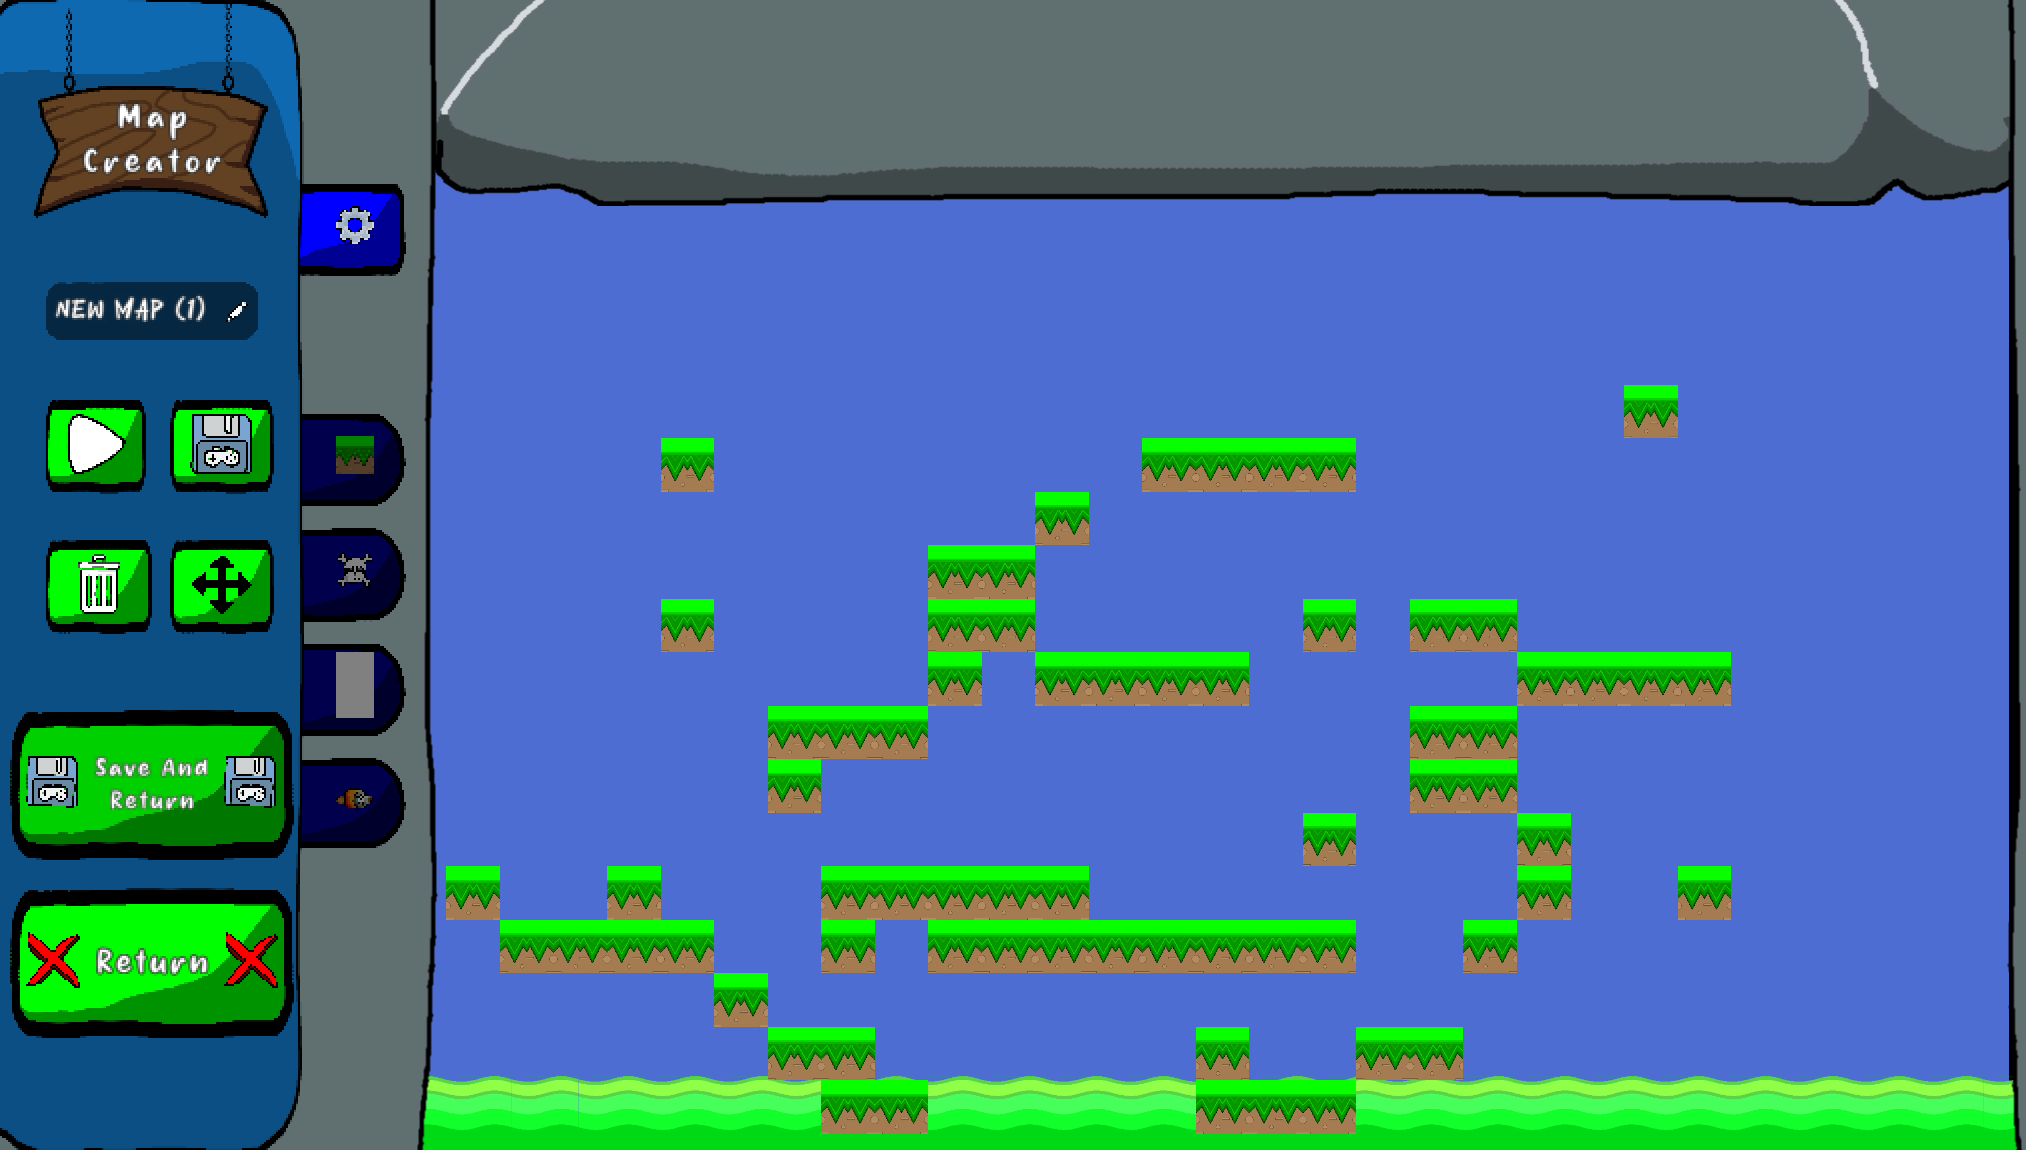
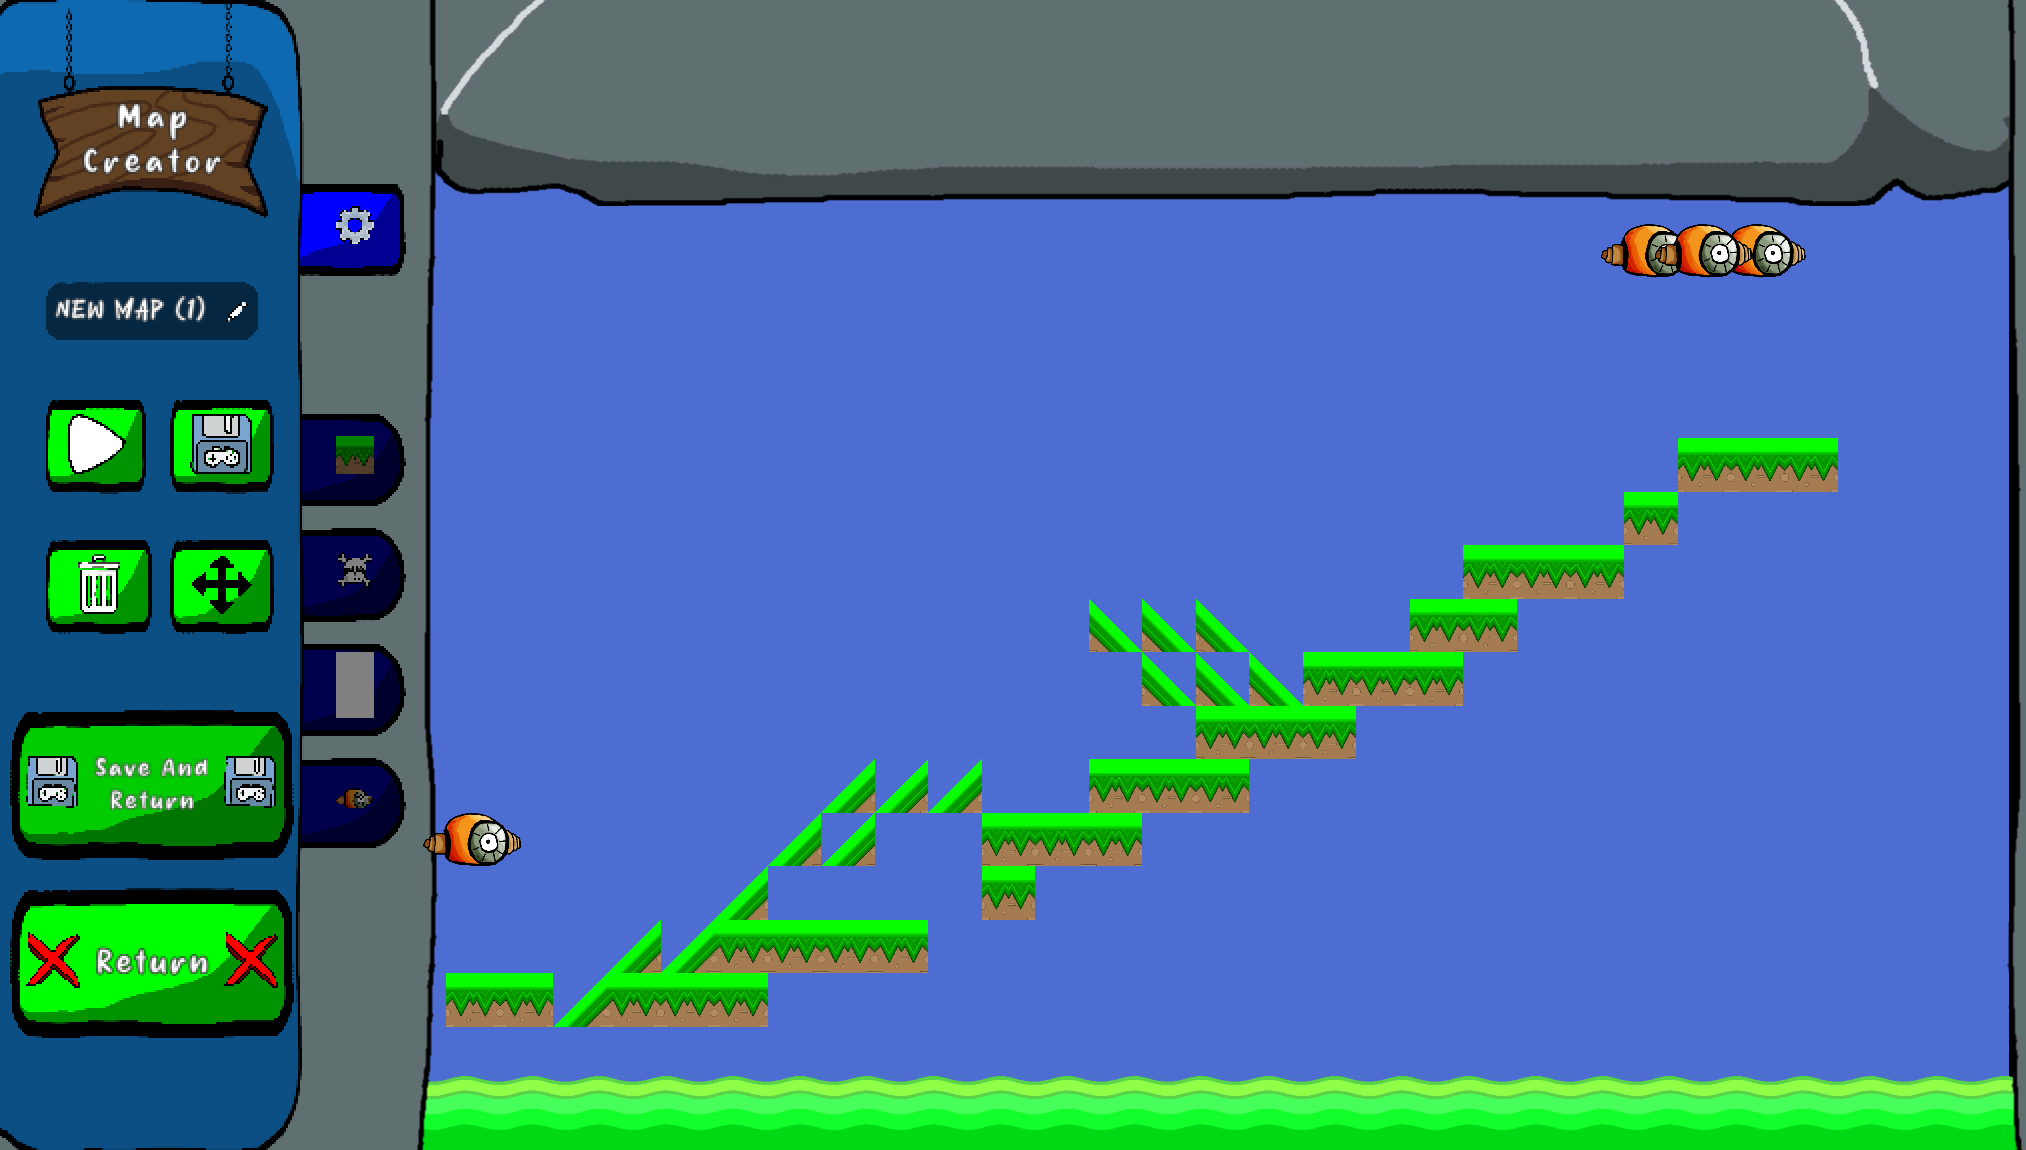
custom lvl are now playable

diff --git a/Assets/Scripts/CustomLevel/CustomLevelMenu.cs b/Assets/Scripts/CustomLevel/CustomLevelMenu.cs
@@ -12,25 +12,35 @@ using UnityEngine.UI;
 public class CustomLevelMenu : MonoBehaviour
 {
     private readonly List<string> _savesNames = new();
-
+    private LvlManager _lvlManager;
+    
     [SerializeField] private Transform pagesParent;
     [SerializeField] private GameObject pagePrefab, savePrefab, createPrefab;
     
     private void Start()
     {
         var path = Path.GetFullPath(@"CustomLevels");
+        _lvlManager = LvlManager.Instance;
         
         if (!Directory.Exists(path)) Directory.CreateDirectory(path);
         PrepareBook(path);
     }
     
-    public void StartMapBuilder()
+    private void StartMapBuilder()
     {
-        var lvlManager = LvlManager.Instance;
-        lvlManager.LvlTitle = Utility.ReturnFirstPossibleName("New map", _savesNames);
-        lvlManager.StartScene(-1);
+        SetUpLvlTitle();
+        _lvlManager.StartScene(-1);
     }
 
+    private void SetUpLvlTitle() => _lvlManager.LvlTitle = Utility.ReturnFirstPossibleName("New map", _savesNames);
+    
+    public void StartLvl(string title)
+    {
+        _lvlManager.LvlTitle = title;
+        _lvlManager.IsCampaign = false;
+        _lvlManager.StartScene(1);
+    }
+    
     private void PrepareBook(string path)
     {
         foreach (var save in Directory.GetDirectories(path).ToList().Where(save =>
@@ -95,6 +105,11 @@ public class CustomLevelMenu : MonoBehaviour
         var lastTimeEdited = File.GetLastWriteTime(Path.Join(title, Path.GetFileNameWithoutExtension(title) + ".json"));
         save.GetChild(2).GetComponent<ParameterizedLocalizedString>().SetObject(new object[]
             { lastTimeEdited.ToString("HH:mm:ss"), lastTimeEdited.ToString("dd/MM/yyyy") });
+
+        save.GetChild(5).GetComponent<Button>().onClick.AddListener(() =>
+        {
+            StartLvl(Path.GetFileNameWithoutExtension(title));
+        });
     }
 
 }

diff --git a/Assets/Scripts/Utilities/LvlGenerator.cs b/Assets/Scripts/Utilities/LvlGenerator.cs
@@ -30,11 +30,14 @@ public class LvlGenerator : MonoBehaviour
 
         try
         {
-            var lvl =
-                JsonConvert.DeserializeObject<Level[]>(Resources.Load<TextAsset>("LevelData/maps").text)[
-                    _lvlManager.CurrentLvl - 1];
-            var map = lvl.Maps;
+            var lvl = _lvlManager.IsCampaign
+                ? JsonConvert.DeserializeObject<Level[]>(Resources.Load<TextAsset>(Path.Join("LevelData", "maps"))
+                    .text)[_lvlManager.CurrentLvl - 1]
+                : JsonConvert.DeserializeObject<Level>(File.ReadAllText(Path.Join(Path.GetFullPath(@"CustomLevels"),
+                    _lvlManager.LvlTitle, _lvlManager.LvlTitle + ".json")));
             
+            var map = lvl.Maps;
+
             _height = map.Length;
             _length = map[0].Length;
             _platforms = new GameObject[_height, _length];
@@ -60,7 +63,7 @@ public class LvlGenerator : MonoBehaviour
             Debug.Log("Error deserializing JSON: " + ex.Message);
         }
 
-        StartTutorial();
+        if (_lvlManager.IsCampaign) StartTutorial();
     }
 
     private void StartTutorial()
@@ -95,7 +98,6 @@ public class LvlGenerator : MonoBehaviour
     private void GenerateObject(char character, int row, int column, bool isPlatform)
     {
         if (row == _height - 1) CreateBottomGround(character, row, column);
-
         var objectDetails = Dictionaries.ObjectBuild.FirstOrDefault(kv => kv.Value.character == character);
 
         if (objectDetails.Equals(

diff --git a/Assets/Scripts/Utilities/Menu/Menu.cs b/Assets/Scripts/Utilities/Menu/Menu.cs
@@ -8,9 +8,11 @@ public class Menu : MonoBehaviour
 {
     private Animator _canvasAnimator;
     private SettingsManager _settingsManager;
+    private LvlManager _lvlManager;
     
     private void Start()
     {
+        _lvlManager = LvlManager.Instance;
         _settingsManager = SettingsManager.Instance;
         _canvasAnimator = GetComponent<Animator>();
         Time.timeScale = 1f;
@@ -23,13 +25,13 @@ public class Menu : MonoBehaviour
     public void StartEndlessRun()
     {
         PlayerManager.Instance.Save();
-        LvlManager.Instance.StartScene((int)Scene.Endless);
+        _lvlManager.StartScene((int)Scene.Endless);
     }
 
     /// <summary>
     /// Reopen main menu.
     /// </summary>
-    public void Restart() => LvlManager.Instance.StartScene((int)Scene.Menu);
+    public void Restart() => _lvlManager.StartScene((int)Scene.Menu);
 
     /// <summary>
     /// Close app. 
@@ -41,7 +43,11 @@ public class Menu : MonoBehaviour
     /// </summary>
     /// <param name="lvl">Level to run.</param>
     /// <remarks>Levels starts form 1.</remarks>
-    public void StartLevel(int lvl) => LvlManager.Instance.StartScene(lvl);
+    public void StartLevel(int lvl)
+    {
+        _lvlManager.IsCampaign = true;
+        _lvlManager.StartScene(lvl);
+    }
 
     public void OpenSettings()
     {

diff --git a/Assets/Scripts/CustomLevel/GameBuildSave.cs b/Assets/Scripts/CustomLevel/GameBuildSave.cs
@@ -41,7 +41,6 @@ public class GameBuildSave : MonoBehaviour
             var path = Path.Join(Path.GetFullPath(@"CustomLevels"), _lvlManager.LvlTitle);
             if (!Directory.Exists(path)) Directory.CreateDirectory(path);
             var finalPath = Path.Join(path, $"{_lvlManager.LvlTitle}.json");
-
             
             if (File.Exists(finalPath))
             {
@@ -51,7 +50,7 @@ public class GameBuildSave : MonoBehaviour
                 finalPath = Path.Join(path, $"{_lvlManager.LvlTitle}.json");
             }
 
-            File.WriteAllText(finalPath, JsonConvert.SerializeObject(new[] { MapObjects() }));
+            File.WriteAllText(finalPath, JsonConvert.SerializeObject(MapObjects()));
             var screenshotPath = Path.Join(path, "Screenshot.jpg");
             if (File.Exists(screenshotPath)) File.Delete(screenshotPath);
             ScreenCapture.CaptureScreenshot(screenshotPath,2);
@@ -71,7 +70,7 @@ public class GameBuildSave : MonoBehaviour
         var lvl = new Level();
         var line = new List<string>();
 
-        for (var i = 0; i < _gameBuilder.Rows; i++)
+        for (var i = _gameBuilder.Rows - 1; i > -1 ; i--)
         {
             var str = new StringBuilder();
             for (var j = 0; j < _gameBuilder.Columns; j++)

diff --git a/Assets/Scripts/CustomLevel/BuildingPlace.cs b/Assets/Scripts/CustomLevel/BuildingPlace.cs
@@ -155,7 +155,6 @@ public class BuildingPlace : MonoBehaviour
             {
                 case ObjectBuildType.Player:
                     _gameBuilder.playerCounter.text = "0";
-                    Debug.Log(_gameBuilder.PlayerPosition);
                     if (_gameBuilder.PlayerPosition != (-1, -1) && _gameBuilder.PlayerPosition != arrayPosition)
                         specialObject = _gameBuilder.BuildingPlaces[_gameBuilder.PlayerPosition.x,
                             _gameBuilder.PlayerPosition.y];
@@ -164,7 +163,6 @@ public class BuildingPlace : MonoBehaviour
                 
                 case ObjectBuildType.EndLvl:
                     _gameBuilder.endLvlCounter.text = "0";
-                    Debug.Log(_gameBuilder.EndLvlPosition);
                     if (_gameBuilder.EndLvlPosition != (-1, -1) && _gameBuilder.EndLvlPosition != arrayPosition)
                         specialObject = _gameBuilder.BuildingPlaces[_gameBuilder.EndLvlPosition.x,
                             _gameBuilder.EndLvlPosition.y];

diff --git a/Assets/Scripts/Utilities/Menu/InGameMenu.cs b/Assets/Scripts/Utilities/Menu/InGameMenu.cs
@@ -1,3 +1,4 @@
+using System;
 using UnityEngine;
 using UnityEngine.SceneManagement;
 
@@ -6,6 +7,10 @@ using UnityEngine.SceneManagement;
 /// </summary>
 public class InGameMenu : MonoBehaviour
 {
+    private LvlManager _lvlManager;
+
+    private void Start() => _lvlManager = LvlManager.Instance;
+
     /// <summary>
     /// Return to main menu.
     /// </summary>
@@ -14,12 +19,12 @@ public class InGameMenu : MonoBehaviour
     /// <summary>
     /// Restart current level.
     /// </summary>
-    public void RestartLevel() => LvlManager.Instance.StartScene(LvlManager.Instance.CurrentLvl);
+    public void RestartLevel() =>_lvlManager.StartScene(_lvlManager.CurrentLvl);
 
     /// <summary>
     /// Start next level.
     /// </summary>
-    public void NextLevel() => LvlManager.Instance.StartScene(LvlManager.Instance.CurrentLvl + 1);
+    public void NextLevel() => _lvlManager.StartScene(_lvlManager.CurrentLvl + 1);
 
     /// <summary>
     /// Stop/Resume current level by modifying the time scale.

diff --git a/Assets/Scripts/Manager/Indestructible/LvlManager.cs b/Assets/Scripts/Manager/Indestructible/LvlManager.cs
@@ -14,6 +14,7 @@ public class LvlManager : IndestructibleManager<LvlManager>
     [NonSerialized] public int CurrentLvl, CoinsInLevel;
     [NonSerialized] public Scene CurrentScene;
     [NonSerialized] public (int, int, int) TimerLimitForStars;
+    [NonSerialized] public bool IsCampaign;
 
     private static SettingsManager _settings;
 
@@ -26,7 +27,7 @@ public class LvlManager : IndestructibleManager<LvlManager>
     public void StartScene(int lvl)
     {
         CurrentLvl = lvl;
-        CurrentScene = lvl >= 1 ? Scene.Champaign : (Scene)lvl;
+        CurrentScene = lvl >= 1 ? Scene.Campaign : (Scene)lvl;
 
         _settings.Save();
         StartCoroutine(LoadAsync(Dictionaries.Scene[CurrentScene], lvl == 13));

diff --git a/Assets/Scripts/Datas/Scene.cs b/Assets/Scripts/Datas/Scene.cs
@@ -5,7 +5,7 @@ public enum Scene
     Menu = -2,
     Custom,
     Endless,
-    Champaign 
+    Campaign 
 }
 
 public static partial class Dictionaries
@@ -15,6 +15,6 @@ public static partial class Dictionaries
         { global::Scene.Menu, "StartMenu" },
         { global::Scene.Custom, "Local Game" },
         { global::Scene.Endless, "EndlessRun" },
-        { global::Scene.Champaign, "Grass Lvl" }
+        { global::Scene.Campaign, "Grass Lvl" }
     };
 }

diff --git a/Assets/Scripts/Models/Level.cs b/Assets/Scripts/Models/Level.cs
@@ -2,10 +2,11 @@
 
 public class Level
 {
-    public string Name { get; set; }
-    
     [JsonProperty("map")]
     public string[] Maps { get; set; }
-    
-    public int[] TimerLimitForStars;
+
+    public int[] TimerLimitForStars { get; set; } =
+    {
+        10_000, 10_000, 10_000
+    };
 }
